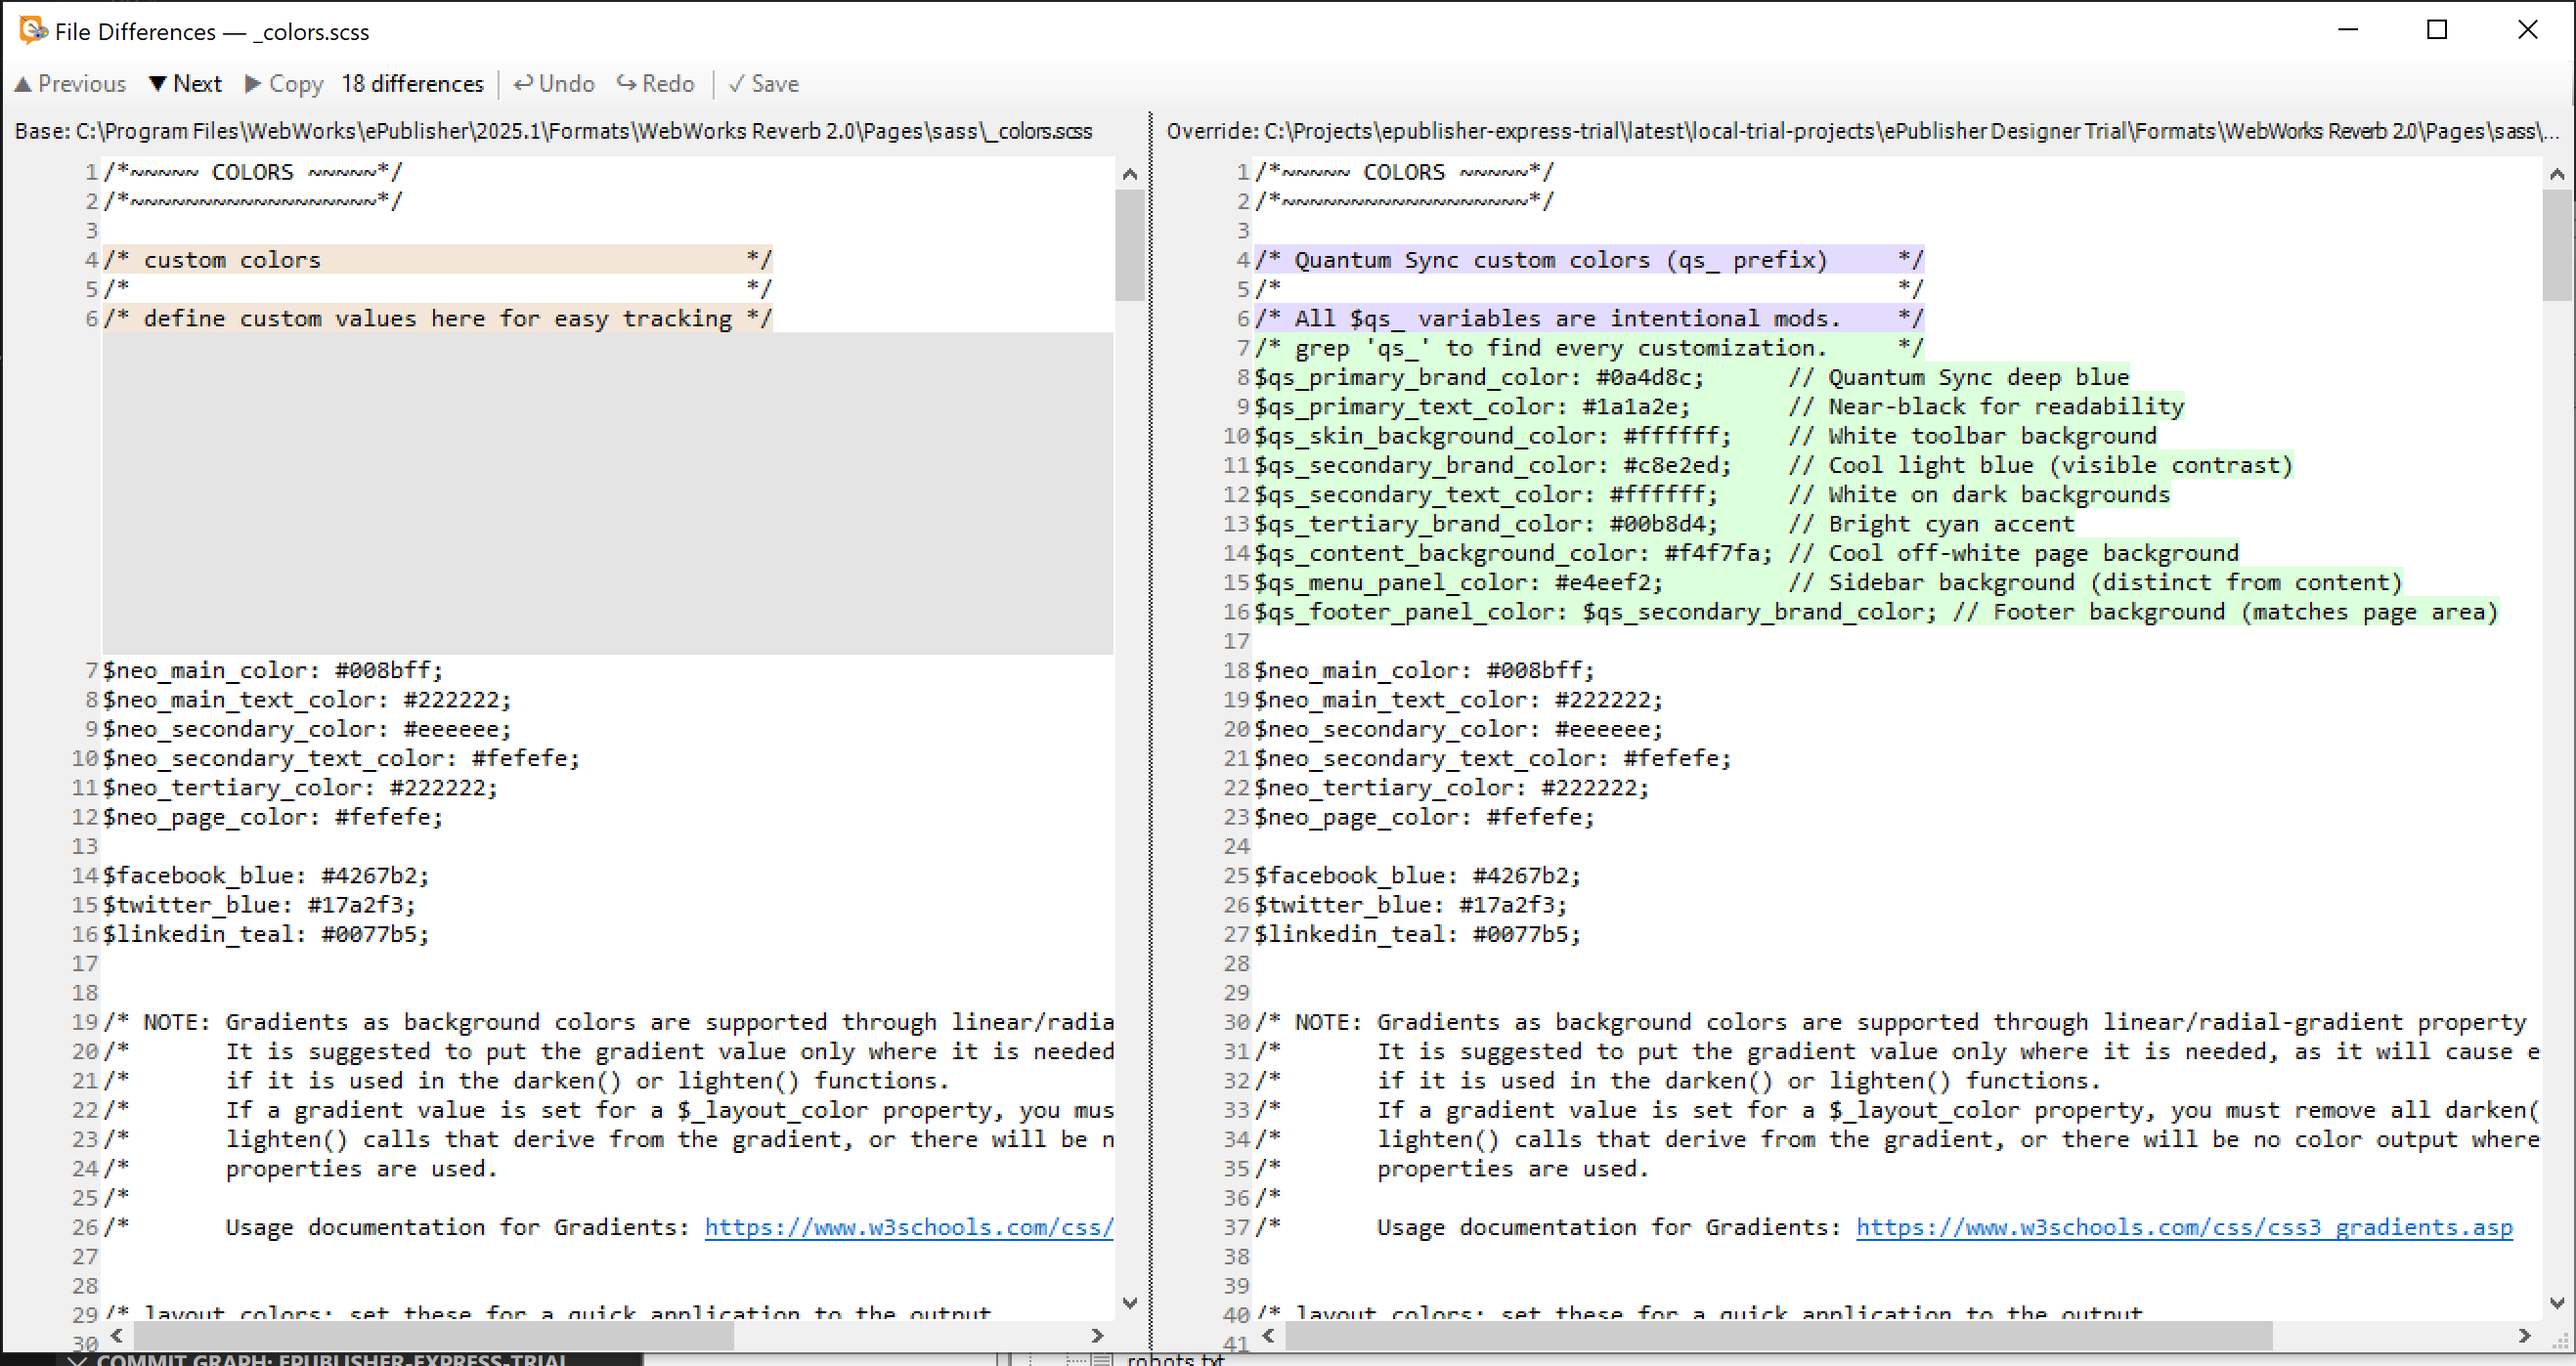
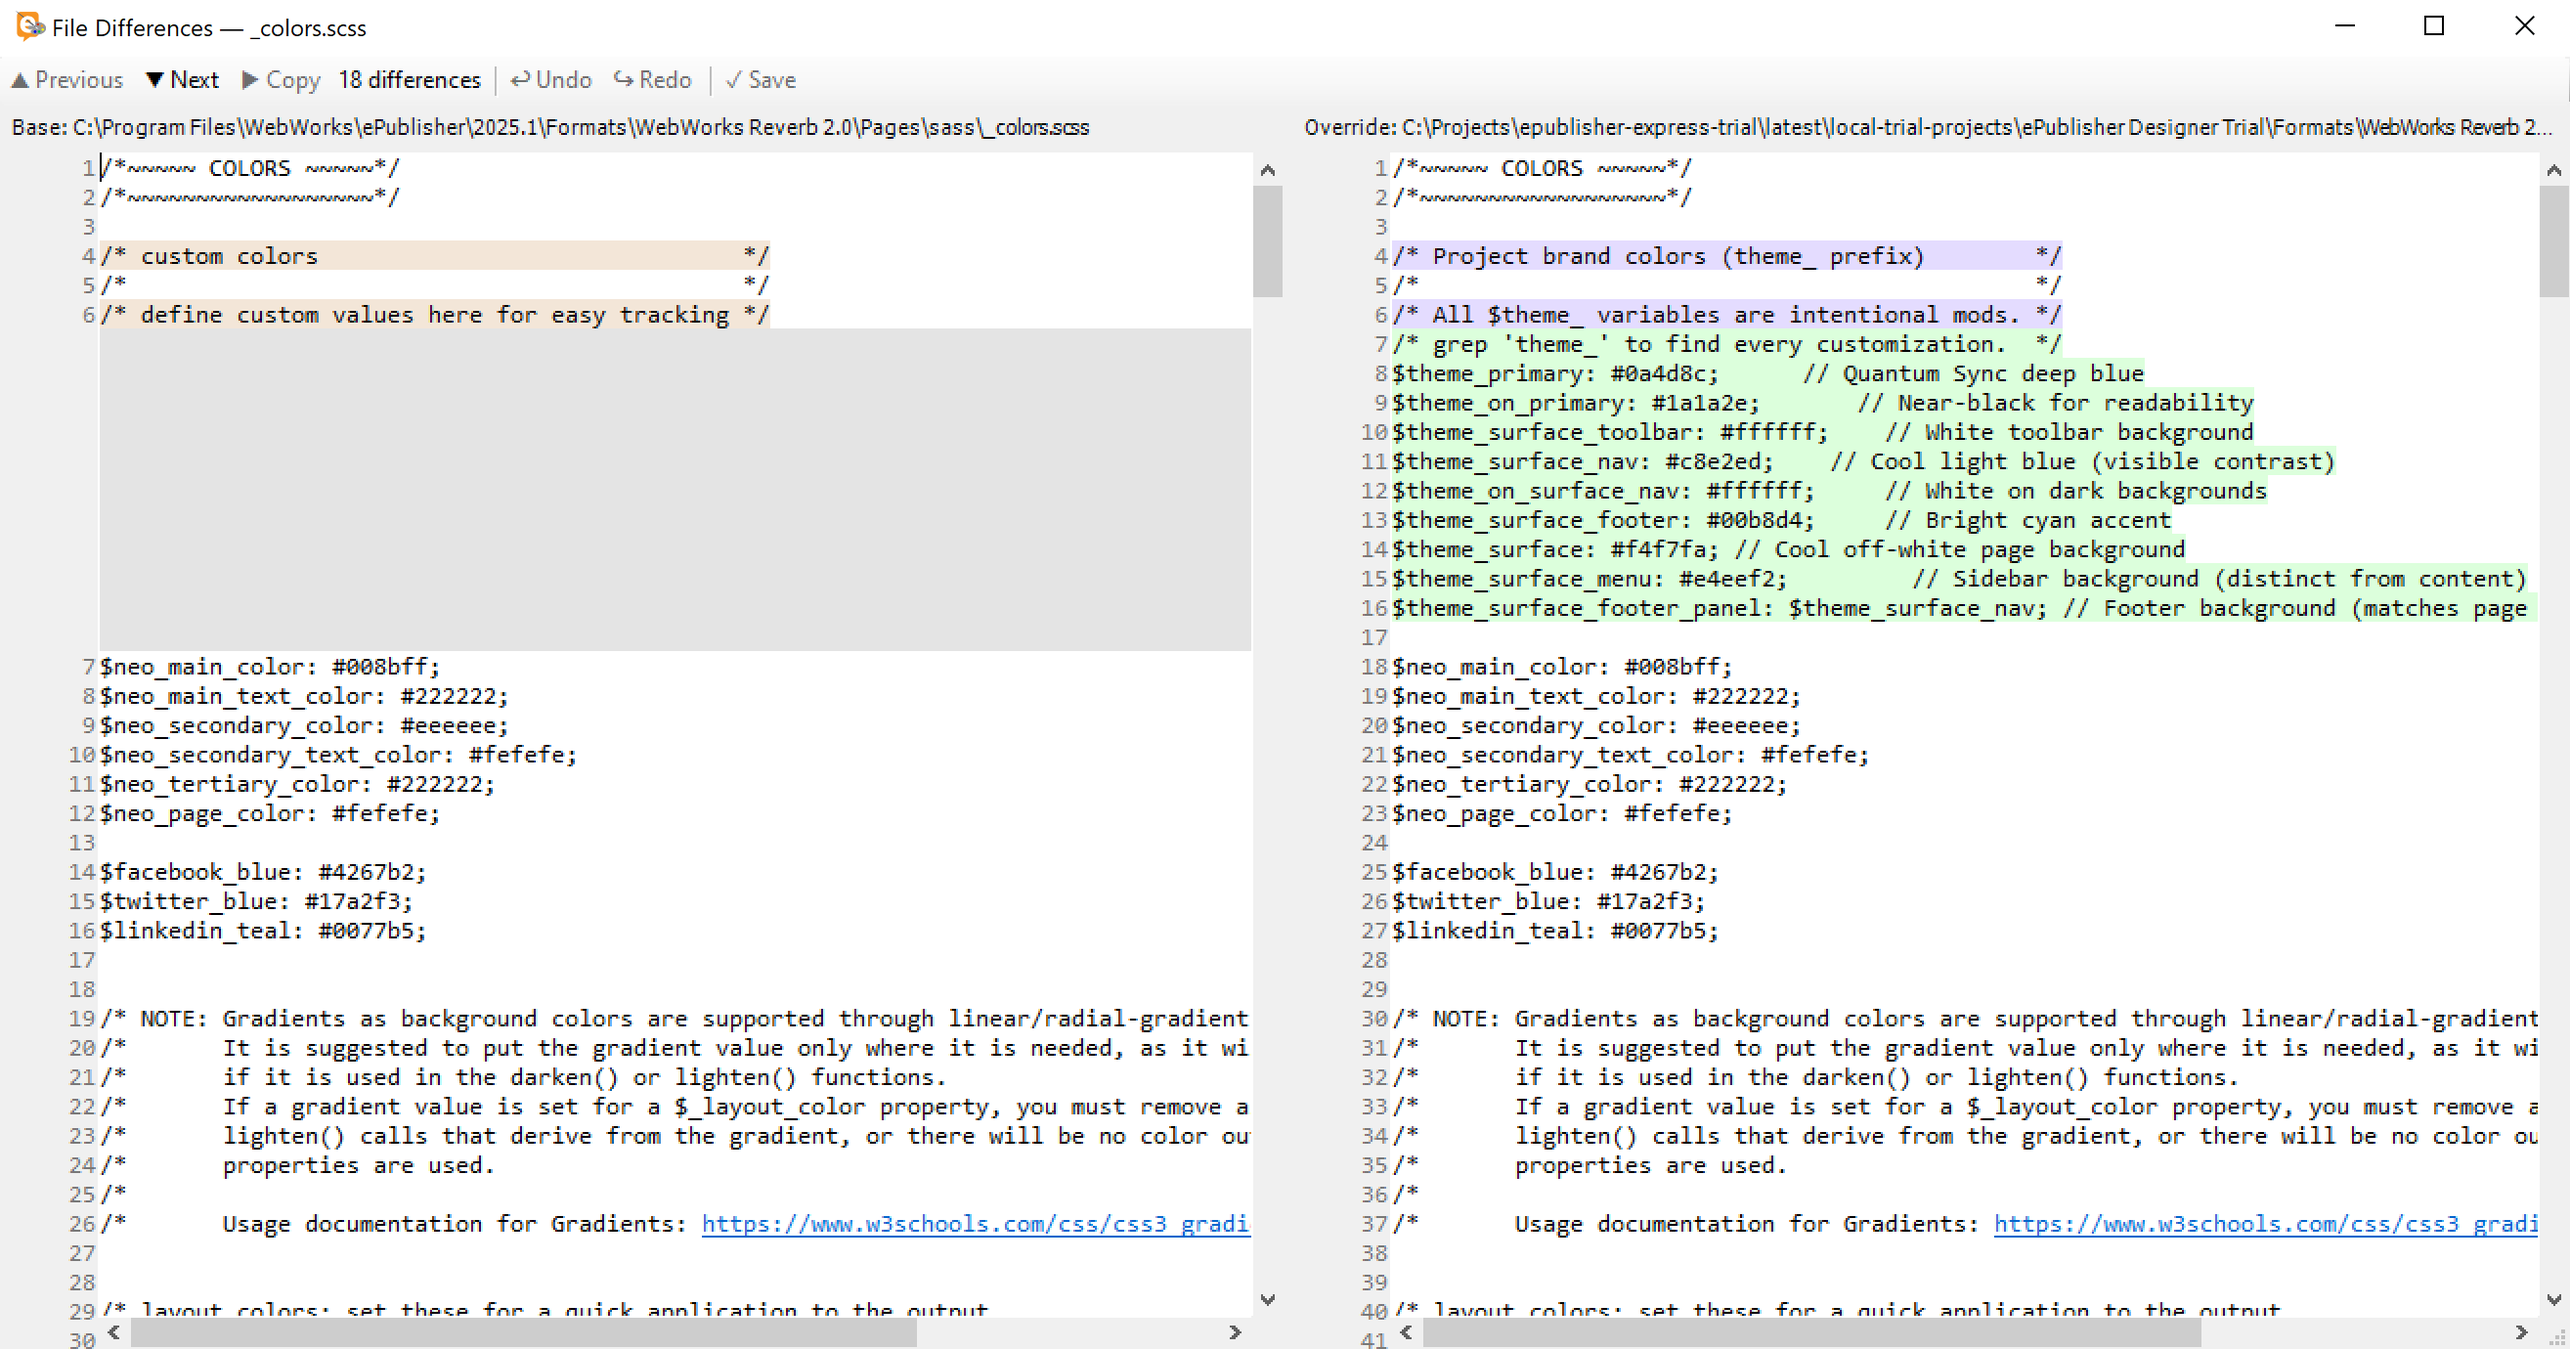
refactor: Rename $qs_ SCSS variables to $theme_ for MD3 alignment (#13)
Align Designer Trial project with the reverb2 skill's $theme_ naming
convention so users see identical patterns in both the trial and the
skill documentation.

Additional fixes from code review:
- Rename $theme_surface_footer to $theme_accent (used for headers, not footer)
- Rename $theme_on_primary to $theme_on_surface (general text color)
- Align inline comments to consistent column
- Fix missing % unit in darken() call (Dart Sass deprecation)

Changed region(s): [[0.0, 0.0, 1.0, 1.0]]

diff --git a/latest/local-trial-projects/ePublisher Designer Trial/Formats/WebWorks Reverb 2.0/Pages/sass/_colors.scss b/latest/local-trial-projects/ePublisher Designer Trial/Formats/WebWorks Reverb 2.0/Pages/sass/_colors.scss
@@ -1,19 +1,19 @@
 /*~~~~~ COLORS ~~~~~*/
 /*~~~~~~~~~~~~~~~~~~*/
 
-/* Quantum Sync custom colors (qs_ prefix)     */
+/* Project brand colors (theme_ prefix)        */
 /*                                             */
-/* All $qs_ variables are intentional mods.    */
-/* grep 'qs_' to find every customization.     */
-$qs_primary_brand_color: #0a4d8c;      // Quantum Sync deep blue
-$qs_primary_text_color: #1a1a2e;       // Near-black for readability
-$qs_skin_background_color: #ffffff;    // White toolbar background
-$qs_secondary_brand_color: #c8e2ed;    // Cool light blue (visible contrast)
-$qs_secondary_text_color: #ffffff;     // White on dark backgrounds
-$qs_tertiary_brand_color: #00b8d4;     // Bright cyan accent
-$qs_content_background_color: #f4f7fa; // Cool off-white page background
-$qs_menu_panel_color: #e4eef2;         // Sidebar background (distinct from content)
-$qs_footer_panel_color: $qs_secondary_brand_color; // Footer background (matches page area)
+/* All $theme_ variables are intentional mods. */
+/* grep 'theme_' to find every customization.  */
+$theme_primary: #0a4d8c;                // Quantum Sync deep blue
+$theme_on_surface: #1a1a2e;             // Near-black for readability
+$theme_surface_toolbar: #ffffff;        // White toolbar background
+$theme_surface_nav: #c8e2ed;            // Cool light blue (visible contrast)
+$theme_on_surface_nav: #ffffff;         // White on dark backgrounds
+$theme_accent: #00b8d4;                 // Bright cyan accent
+$theme_surface: #f4f7fa;                // Cool off-white page background
+$theme_surface_menu: #e4eef2;           // Sidebar background (distinct from content)
+$theme_surface_footer_panel: $theme_surface_nav; // Footer background (matches page area)
 
 $neo_main_color: #008bff;
 $neo_main_text_color: #222222;
@@ -40,12 +40,12 @@ $linkedin_teal: #0077b5;
 /* layout colors: set these for a quick application to the output.                                   */
 /*                                                                                                   */
 
-$_layout_color_1: $qs_primary_brand_color;
-$_layout_color_2: $qs_primary_text_color;
-$_layout_color_3: $qs_secondary_brand_color;
-$_layout_color_4: $qs_secondary_text_color;
-$_layout_color_5: $qs_tertiary_brand_color;
-$_layout_color_6: $qs_content_background_color;
+$_layout_color_1: $theme_primary;
+$_layout_color_2: $theme_on_surface;
+$_layout_color_3: $theme_surface_nav;
+$_layout_color_4: $theme_on_surface_nav;
+$_layout_color_5: $theme_accent;
+$_layout_color_6: $theme_surface;
 
 /* Defaults for structure items */
 /*                              */
@@ -81,13 +81,13 @@ $search_result_highlight_color: yellow;
 /* colors for specific items */
 /*                           */
 /* toolbar */
-$toolbar_background_color: $qs_skin_background_color;
+$toolbar_background_color: $theme_surface_toolbar;
 $toolbar_text_color: $_layout_color_2;
 $toolbar_icon_color: $_layout_color_2;
 
 $toolbar_button_background_color: $toolbar_background_color;
 $toolbar_button_icon_color: $toolbar_icon_color;
-$toolbar_button_icon_color_disabled: darken($qs_skin_background_color, 50);
+$toolbar_button_icon_color_disabled: darken($theme_surface_toolbar, 50%);
 
 $toolbar_button_menu_background_color: $toolbar_button_background_color;
 $toolbar_button_menu_background_color_hover: darken($toolbar_button_menu_background_color, 10%);
@@ -95,7 +95,7 @@ $toolbar_button_menu_background_color_click: lighten($toolbar_button_menu_backgr
 $toolbar_button_menu_icon_color: $toolbar_button_icon_color;
 $toolbar_button_menu_icon_color_hover: darken($toolbar_button_menu_icon_color, 20%);
 $toolbar_button_menu_icon_color_click: lighten($toolbar_button_menu_icon_color, 20%);
-$toolbar_button_menu_icon_color_disabled: darken($qs_skin_background_color, 50%);
+$toolbar_button_menu_icon_color_disabled: darken($theme_surface_toolbar, 50%);
 $toolbar_logo_section_background_color: $toolbar_background_color;
 $toolbar_logo_text_color: $toolbar_text_color;
 $toolbar_logo_link_text_color: $toolbar_logo_text_color;
@@ -154,27 +154,27 @@ $toolbar_button_translate_icon_color: $toolbar_button_icon_color;
 $toolbar_button_translate_icon_color_hover: darken($toolbar_button_translate_icon_color, 20%);
 $toolbar_button_translate_icon_color_click: lighten($toolbar_button_translate_icon_color, 20%);
 
-$toolbar_tabs_container_background_color: $qs_skin_background_color;
-$toolbar_tab_background_color: $qs_skin_background_color;
-$toolbar_tab_background_color_hover: lighten($qs_primary_brand_color, 30%);
+$toolbar_tabs_container_background_color: $theme_surface_toolbar;
+$toolbar_tab_background_color: $theme_surface_toolbar;
+$toolbar_tab_background_color_hover: lighten($theme_primary, 30%);
 $toolbar_tab_text_color: $_layout_color_2;
-$toolbar_tab_text_color_hover: $qs_primary_text_color;
-$toolbar_tab_current_background_color: lighten($qs_primary_brand_color, 10%);
+$toolbar_tab_text_color_hover: $theme_on_surface;
+$toolbar_tab_current_background_color: lighten($theme_primary, 10%);
 $toolbar_tab_current_background_color_hover: $toolbar_tab_current_background_color;
-$toolbar_tab_current_text_color: darken($qs_primary_text_color, 10%);
+$toolbar_tab_current_text_color: darken($theme_on_surface, 10%);
 $toolbar_tab_current_text_color_hover: $toolbar_tab_current_text_color;
 
 
 /* menu (nav & toc/index) */
-$menu_background_color: $qs_menu_panel_color;
+$menu_background_color: $theme_surface_menu;
 $menu_text_color: $_layout_color_2;
 
 $menu_nav_buttons_icon_color: $menu_text_color;
-$menu_nav_buttons_icon_color_hover: darken($qs_primary_text_color, 20%);
-$menu_nav_buttons_icon_color_click: lighten($qs_primary_text_color, 20%);
-$menu_nav_buttons_background_color: $qs_content_background_color;
-$menu_nav_buttons_background_color_hover: darken($qs_content_background_color, 5%);
-$menu_nav_buttons_background_color_click: lighten($qs_content_background_color, 5%);
+$menu_nav_buttons_icon_color_hover: darken($theme_on_surface, 20%);
+$menu_nav_buttons_icon_color_click: lighten($theme_on_surface, 20%);
+$menu_nav_buttons_background_color: $theme_surface;
+$menu_nav_buttons_background_color_hover: darken($theme_surface, 5%);
+$menu_nav_buttons_background_color_click: lighten($theme_surface, 5%);
 $menu_nav_buttons_current_icon_color: $menu_nav_buttons_icon_color;
 $menu_nav_buttons_current_icon_color_hover: $menu_nav_buttons_icon_color;
 $menu_nav_buttons_current_icon_color_click: $menu_nav_buttons_icon_color;
@@ -200,7 +200,7 @@ $menu_toc_item_current_text_color_click: $menu_toc_item_current_text_color;
 $menu_toc_item_current_icon_color: $menu_toc_item_current_text_color;
 $menu_toc_item_current_icon_color_hover: $menu_toc_item_current_icon_color;
 $menu_toc_item_current_icon_color_click: $menu_toc_item_current_icon_color;
-$menu_toc_item_current_highlight_color: $qs_primary_brand_color;
+$menu_toc_item_current_highlight_color: $theme_primary;
 
 $menu_index_background_color: $menu_background_color;
 $menu_index_text_color: $menu_text_color;
@@ -212,15 +212,15 @@ $menu_index_link_color_hover: lighten($menu_index_link_color, 20%);
 /* page */
 $page_background_color: $_layout_color_6;
 
-$page_breadcrumbs_background_color: $qs_secondary_brand_color;
-$page_breadcrumbs_text_color: $qs_primary_text_color;
+$page_breadcrumbs_background_color: $theme_surface_nav;
+$page_breadcrumbs_text_color: $theme_on_surface;
 $page_breadcrumbs_link_color: $link_default_color;
 $page_breadcrumbs_link_color_hover: $page_breadcrumbs_link_color;
 $page_breadcrumbs_link_color_visited: $link_visited_color;
 $page_breadcrumbs_link_color_visited_hover: $page_breadcrumbs_link_color_visited;
 
 $page_toolbar_tool_icon_color: $_layout_color_2;
-$page_toolbar_tool_icon_color_hover: lighten($qs_primary_text_color, 20%);
+$page_toolbar_tool_icon_color_hover: lighten($theme_on_surface, 20%);
 $page_toolbar_tool_icon_color_click: darken($page_toolbar_tool_icon_color, 20%);
 $page_toolbar_icon_divider_color: $page_toolbar_tool_icon_color;
 $page_toolbar_social_icon_color: $page_toolbar_tool_icon_color;
@@ -236,8 +236,8 @@ $page_dropdown_arrow_color: $_layout_color_2;
 $page_dropdown_arrow_color_hover: darken($page_dropdown_arrow_color, 20%);
 $page_dropdown_arrow_color_click: lighten($page_dropdown_arrow_color, 20%);
 
-$page_publish_date_color: $qs_primary_text_color;
-$page_modified_date_color: $qs_primary_text_color;
+$page_publish_date_color: $theme_on_surface;
+$page_modified_date_color: $theme_on_surface;
 
 $page_helpful_message_text_color: $_layout_color_2;
 $page_helpful_button_icon_color: $page_toolbar_tool_icon_color;
@@ -297,18 +297,18 @@ $header_link_color: $link_default_color;
 $header_link_color_visited: $link_visited_color;
 
 /* footer */
-$footer_background_color: $qs_footer_panel_color;
-$footer_text_color: $qs_primary_text_color;
+$footer_background_color: $theme_surface_footer_panel;
+$footer_text_color: $theme_on_surface;
 $footer_link_color: $link_default_color;
 $footer_link_color_visited: $link_visited_color;
-$footer_hr_color: darken($qs_secondary_brand_color, 15%);
-$footer_publish_date_text_color: lighten($qs_primary_text_color, 20%);
-$footer_copyright_message_text_color: lighten($qs_primary_text_color, 20%);
+$footer_hr_color: darken($theme_surface_nav, 15%);
+$footer_publish_date_text_color: lighten($theme_on_surface, 20%);
+$footer_copyright_message_text_color: lighten($theme_on_surface, 20%);
 
 /* back-to-top button */
 $back_to_top_background_color: $_layout_color_1;
 $back_to_top_background_color_hover: darken($back_to_top_background_color, 20%);
-$back_to_top_caret_color: $qs_secondary_text_color;
+$back_to_top_caret_color: $theme_on_surface_nav;
 $back_to_top_caret_color_hover: darken($back_to_top_caret_color, 20%);
 
 /*

diff --git a/latest/local-trial-projects/ePublisher Designer Trial/Formats/WebWorks Reverb 2.0/Pages/sass/_custom-skin.scss b/latest/local-trial-projects/ePublisher Designer Trial/Formats/WebWorks Reverb 2.0/Pages/sass/_custom-skin.scss
@@ -15,11 +15,11 @@
 // Create Card layout for page content excluding breadcrumbs
 //
 #page_div {
-  background: $qs_secondary_brand_color;
+  background: $theme_surface_nav;
 }
 
 #ww_content_container {
-  background: $qs_secondary_brand_color;
+  background: $theme_surface_nav;
   padding: 8px 12px 12px 12px; // drop-shadow from toolbar may impact value of top padding
 }
 
@@ -29,22 +29,22 @@
 
 .ww_skin_page_toolbar {
   border-radius: 12px 12px 0 0;
-  background: $qs_content_background_color;
+  background: $theme_surface;
 }
 
 .ww_skin_was_this_helpful_container {
-  background: $qs_content_background_color;
+  background: $theme_surface;
 }
 
 #page_content_container {
-  background: $qs_content_background_color;
+  background: $theme_surface;
 	border-radius: 0 0 12px 12px;
 }
 //
 // End Card layout for page content excluding breadcrumbs
 
 #page_loading {
-  color: $qs_primary_brand_color;
+  color: $theme_primary;
 }
 
 #toolbar_div {

diff --git a/latest/online-trial-guides/designer-trial/designer-trial-guide.md b/latest/online-trial-guides/designer-trial/designer-trial-guide.md
@@ -72,7 +72,7 @@ Your published output represents your brand. Designer gives you full control ove
 <!-- style:Screenshot -->
 ![**File Differences Viewer** showing default (left) and customized (right) `_colors.scss`](images/designer-file-differences-viewer.png)
 
-The File Differences Viewer shows the installed default file on the left and your customized version on the right. You can edit the right side directly — change `$qs_primary_brand_color: #0a4d8c` to your brand color and click **Save**. As the Reverb format evolves across releases, this viewer helps you see exactly what you've customized so you can maintain your changes confidently.
+The File Differences Viewer shows the installed default file on the left and your customized version on the right. You can edit the right side directly — change `$theme_primary: #0a4d8c` to your brand color and click **Save**. As the Reverb format evolves across releases, this viewer helps you see exactly what you've customized so you can maintain your changes confidently.
 
 > **Tip:** Right-click any file and select **Edit File...** to open it in an external editor instead. Editors like VS Code show inline color swatches for hex values, making it easy to pick and preview brand colors.
 
